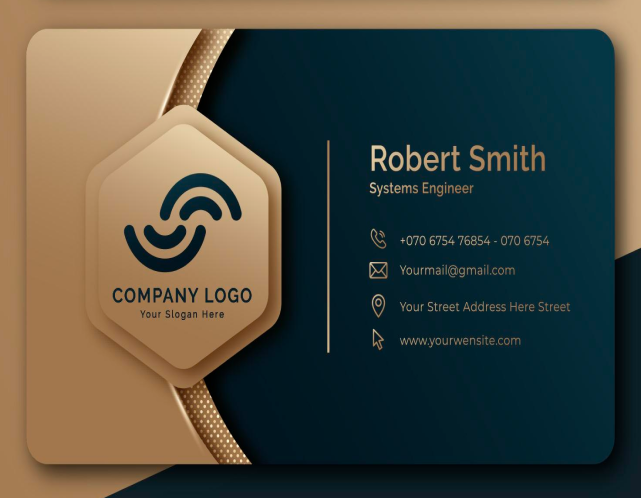
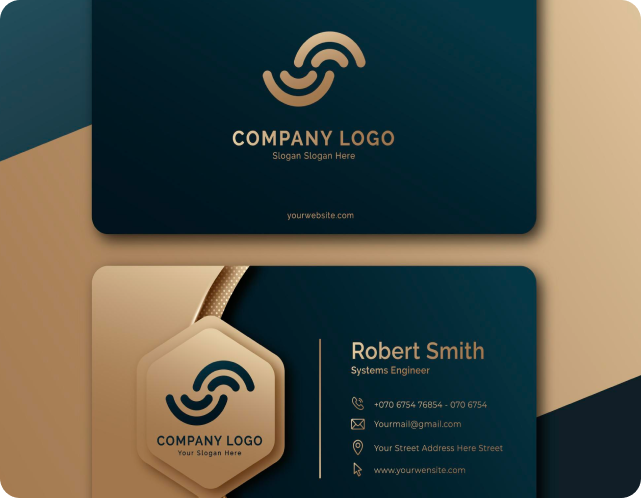
change title and adjust portfolio images

diff --git a/index.html b/index.html
@@ -352,7 +352,7 @@
                                     data-aos="zoom-out-left"><img src="./img/portfolio4.png" alt="portfolio">
                               </div>
                               <div class="col-12 col-xxl-6 col-xl-6 col-lg-6 col-md-6 col-sm-12"
-                                    data-aos="zoom-out-right"><img src="./img/portfolio5.png" alt="portfolio"></div>
+                                    data-aos="zoom-out-right"><img src="./img/portfolio56.jpg" alt="portfolio"></div>
                               <div class="col-12 col-xxl-6 col-xl-6 col-lg-6 col-md-6 col-sm-12"
                                     data-aos="zoom-out-left"><img src="./img/portfolio6.png" alt="portfolio">
                               </div>
